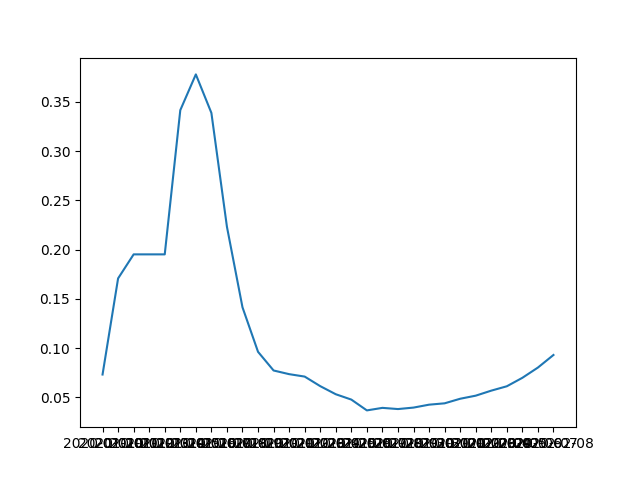
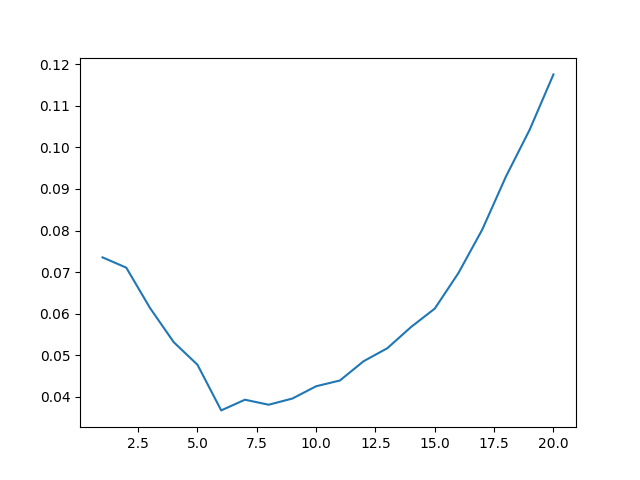
修改

diff --git a/SIR.py b/SIR.py
@@ -65,15 +65,18 @@ if __name__ == "__main__":
     pl.plot(data["治愈"], "-g", label="healed")
     pl.plot(data["感染者"], "-r", label="infectious")
     pl.legend(loc=0)
-    pl.title("real data(begin with 2020-1-10)")
+    pl.title("real data(begin with 2020-01-22)")
     pl.xlabel("Index")
     pl.ylabel("Infectious")
     pl.savefig("realdata.png")
-'''
+
     # # 计算β值，用确诊病例除以密切接触者人数
     gammaguess = (data["治愈"]+data["死亡"])/data["感染者"]
+    print("gammaguess")
     print(gammaguess)
+
     gamma = gammaguess[-7:-1].mean()
+    print("gamma")
     print(gamma)
     beta = gamma*2.0
     print("beta=")
@@ -122,7 +125,7 @@ if __name__ == "__main__":
                 print("S0=%d beta=%f minErr=%f" % (S, b, errsum))
 
 print("S0 = %d β = %f" % (minS0, minBeta))
-'''
+
 
 
 print("预测最大感染人数:%d 位置:%d" % (RES[:, 1].max(), np.argmax(RES[:, 1])))
